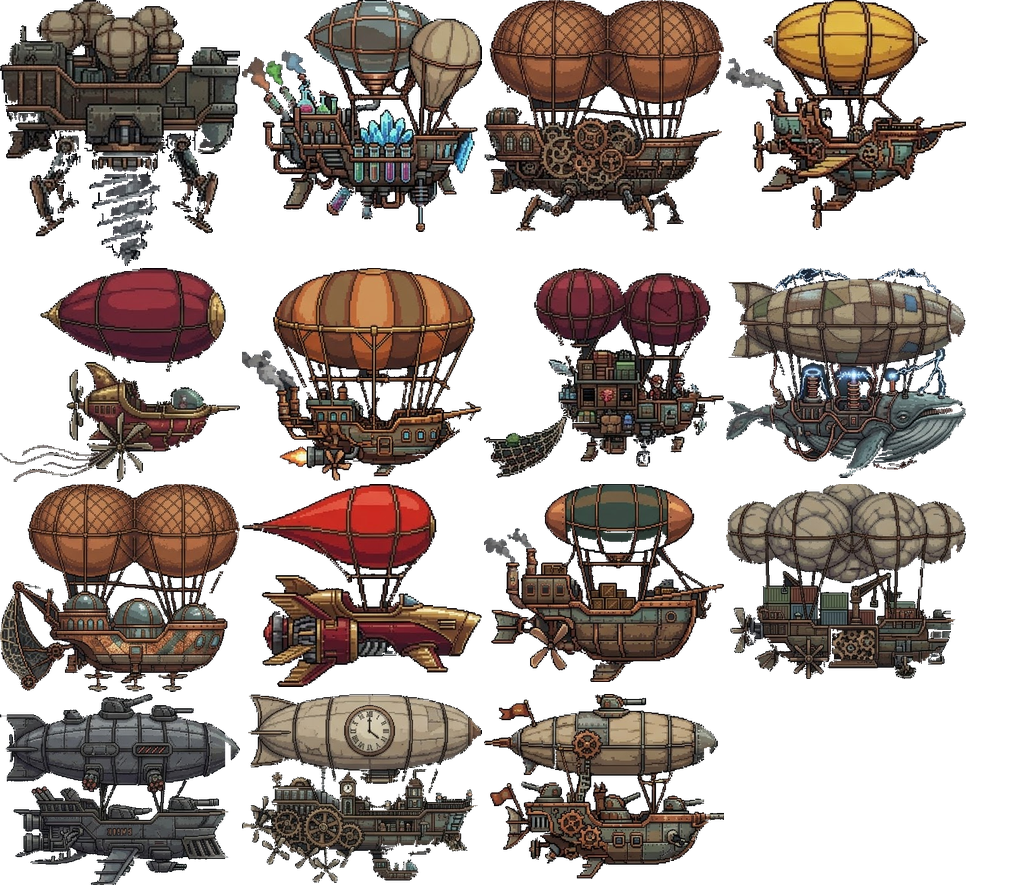
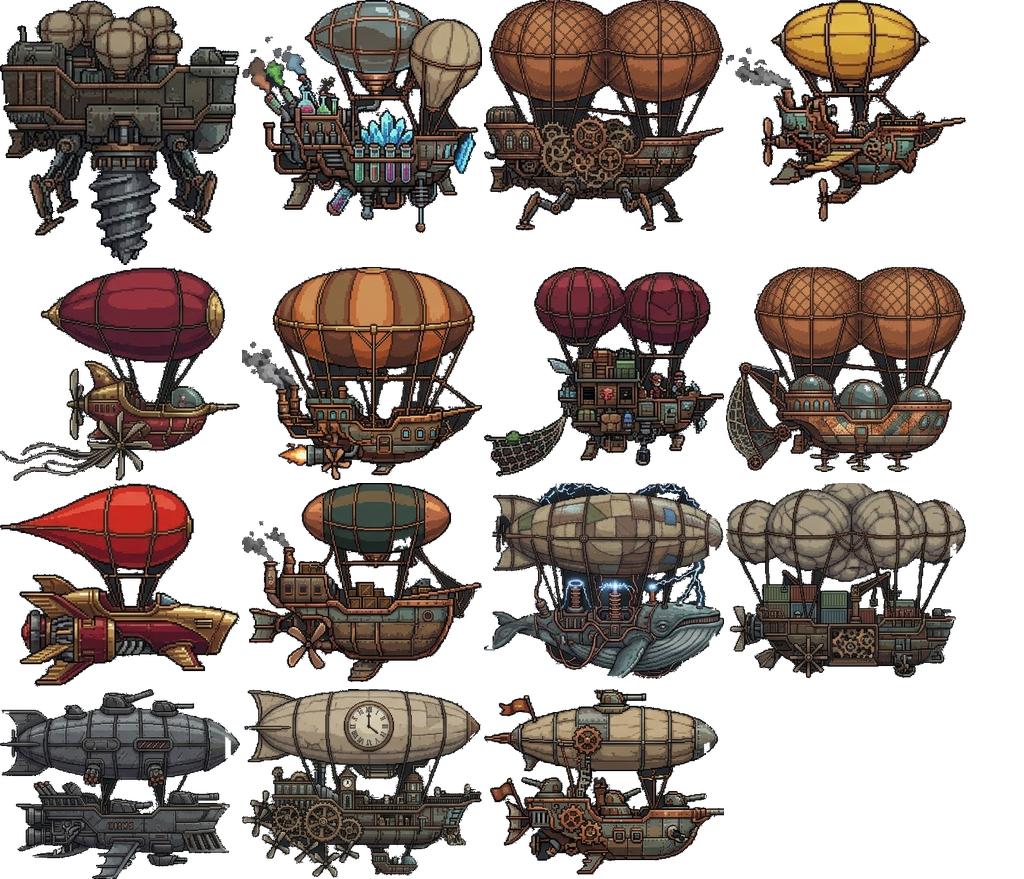
Recut the fleet ships keeping their outlines
Measure the backdrop tolerance per panel from its own noise instead of a
fixed 22, which ate the ships' near-black outlines, and drop stray art
and corner marks outside the frames.

Claude-Session: https://claude.ai/code/session_012B9RMEQkFnqoemxWw27KeB

diff --git a/js/sprites.js b/js/sprites.js
@@ -3,7 +3,7 @@
 // Frames are [x, y, w, h, atlas] (atlas 0 when omitted).
 (function () {
   const FRAMES = {
-    aether_alchemist: [242,0,240,232,3],
+    aether_alchemist: [242,0,240,233,3],
     ammo_box: [351,361,89,92,2],
     anchor_a: [880,640,30,42],
     anchor_b: [912,640,29,42],
@@ -48,10 +48,10 @@
     cannon_carriage: [485,548,169,79,2],
     cannon_ornate: [561,456,203,86,2],
     cart: [278,640,50,54],
-    celestial_harvester: [0,484,240,208,3],
+    celestial_harvester: [726,267,240,205,3],
     chest_ornate: [149,548,118,83,2],
     chest_wood: [766,456,111,86,2],
-    clockwork_caravan: [242,694,240,189,3],
+    clockwork_caravan: [242,689,240,189,3],
     cloud_big: [208,705,76,30],
     cloud_puff: [456,705,47,27],
     cloud_small: [134,741,43,17],
@@ -60,8 +60,8 @@
     compass: [71,262,87,97,2],
     compass_wheel: [799,144,90,98,2],
     crate_wood: [662,361,94,92,2],
-    crimson_comet: [242,484,240,203,3],
-    drill_platform: [0,0,240,266,3],
+    crimson_comet: [0,483,240,204,3],
+    drill_platform: [0,0,240,265,3],
     engine_box: [896,537,64,69],
     engine_ornate: [478,0,156,138,2],
     engine_small: [155,640,49,55],
@@ -85,7 +85,7 @@
     flag_star: [521,640,44,49],
     flame_trail: [633,384,191,29,1],
     frame: [418,705,36,27],
-    galleon_of_gears: [484,0,240,232,3],
+    galleon_of_gears: [484,0,240,231,3],
     gate: [732,640,32,47],
     gatling_a: [260,635,136,65,2],
     gatling_b: [857,548,137,74,2],
@@ -93,7 +93,7 @@
     gauge: [269,548,93,82,2],
     gears_a: [780,0,198,131,2],
     gears_b: [636,0,142,135,2],
-    gilded_sparrow: [484,484,240,198,3],
+    gilded_sparrow: [242,483,240,199,3],
     glue_glob: [234,384,52,37,1],
     glue_mesh: [0,384,54,44,1],
     glue_spray: [139,384,52,39,1],
@@ -108,8 +108,8 @@
     hull_iron: [684,298,162,121],
     hull_trim: [0,537,153,101],
     hull_wood: [155,537,154,91],
-    iron_nautilus: [484,694,240,185,3],
-    ironclad_leviathan: [0,694,240,191,3],
+    iron_nautilus: [484,689,240,186,3],
+    ironclad_leviathan: [0,689,240,190,3],
     ladder: [962,537,20,68],
     lamp: [697,640,33,47],
     lever_a: [741,548,34,77,2],
@@ -147,8 +147,8 @@
     rudder: [442,361,86,92,2],
     sail_jib: [496,298,44,156],
     sail_square: [301,298,86,167],
-    scarlet_caravan: [484,268,240,210,3],
-    scarlet_drifter: [0,268,240,214,3],
+    scarlet_caravan: [484,267,240,210,3],
+    scarlet_drifter: [0,267,240,214,3],
     shell_a: [766,144,31,99,2],
     shell_b: [250,144,29,107,2],
     shell_c: [281,144,34,107,2],
@@ -158,9 +158,9 @@
     ship_galleon: [0,298,299,237],
     ship_ironclad: [674,0,337,245],
     ship_pirate: [370,0,302,253],
-    sky_goliath: [726,484,240,195,3],
-    sky_voyager: [242,268,240,213,3],
-    sky_whale: [726,268,240,210,3],
+    sky_goliath: [726,483,240,195,3],
+    sky_voyager: [242,267,240,213,3],
+    sky_whale: [484,483,240,196,3],
     smoke_black: [654,135,107,86,1],
     smoke_green: [0,135,94,94,1],
     smoke_grey: [80,231,112,84,1],
@@ -195,7 +195,7 @@
     zap_crack: [941,231,59,65,1],
     zap_white: [644,231,77,75,1],
     zap_yellow: [798,231,67,73,1],
-    zephyr_scout: [726,0,240,230,3],
+    zephyr_scout: [726,0,240,222,3],
   };
   // Atlases load the first time one of their frames is asked for; ships and effects load at once.
   const SOURCES = ['assets/art/ship-parts.png', 'assets/art/fx.png', 'assets/art/parts.png', 'assets/art/ships.png'];

diff --git a/tools/build_sprites.py b/tools/build_sprites.py
@@ -216,40 +216,64 @@ def keyed(path, cuts):
 
 
 def fleet_pieces(max_w=240):
-    """Cuts each ship off its panel: the backdrop is whatever matches the panel's edge colour and
-    touches the edge, plus big pockets of exactly that colour trapped between rigging lines."""
+    """Cuts each ship off its panel. The backdrop is a near-flat dark blue-grey with a little JPEG
+    noise; the ships' outlines are only a little darker, so the tolerance is measured per panel from
+    the noise of an empty corner rather than fixed. Backdrop is what matches it and touches the edge
+    (or sits on the frame's lines), plus big pockets trapped between rigging. Only pieces that reach
+    inside the frame are kept: the sheets have faint silhouettes painted outside the frames."""
     from scipy import ndimage
     pieces = {}
-    for nm, (sheet, panel, tol) in SHIP_CUTS.items():
+    for nm, (sheet, panel, _) in SHIP_CUTS.items():
         A = np.array(Image.open(os.path.join(SRC, 'ships', f'fleet-{sheet}.jpg')).convert('RGB')).astype(int)
         x0, y0, x1, y1 = SHIP_PANELS[panel]
         c = A[y0:y1, x0:x1]
-        bg = np.median(np.concatenate([c[0], c[-1], c[:, 0], c[:, -1]]), axis=0)
-        diff = np.abs(c - bg).max(axis=2)
-        # The panel's frame rectangle sits on the same bands on every sheet; only frame-coloured
-        # pixels on those bands are backdrop, so a ship crossing a band keeps its own pixels.
-        bands = np.zeros(diff.shape, bool)
         (r0, r1), (q0, q1) = FRAME_BANDS[panel]
+        # The frame's interior, in quarter coordinates.
+        fy0, fy1, fx0, fx1 = r0[1] + 2 - y0, r1[0] - 2 - y0, q0[1] + 2 - x0, q1[0] - 2 - x0
+        # Sample the flattest of several empty-looking patches (a ship may overhang any one corner).
+        spots = [(fy0, fx0), (fy0, fx1 - 24), (fy1 - 24, fx0), (fy1 - 24, fx1 - 24), (fy1 + 6, fx0 + 40), (fy1 + 6, fx1 - 64)]
+        patches = [c[max(0, y):max(0, y) + 20, max(0, x):max(0, x) + 24].reshape(-1, 3) for y, x in spots]
+        patches = [p_ for p_ in patches if len(p_) >= 200 and p_.mean() < 80]
+        corner = min(patches, key=lambda p_: p_.std(axis=0).sum())
+        bg = np.median(corner, axis=0)
+        tol = max(8, np.percentile(np.abs(corner - bg).max(axis=1), 99.5) + 3)
+        diff = np.abs(c - bg).max(axis=2)
+        bands = np.zeros(diff.shape, bool)
         for lo, hi in (r0, r1): bands[max(0, lo - 2 - y0):max(0, hi + 3 - y0), :] = True
         for lo, hi in (q0, q1): bands[:, max(0, lo - 2 - x0):max(0, hi + 3 - x0)] = True
-        grey = (c.max(axis=2) - c.min(axis=2) <= 20) & (c.max(axis=2) <= 110)  # the lines vary from sheet to sheet
-        frame = bands & ((np.abs(c - np.array(FRAME_LINE)).max(axis=2) <= 26) | (diff <= tol + 14) | grey)
+        grey = (c.max(axis=2) - c.min(axis=2) <= 20) & (c.max(axis=2) <= 110) & (c.max(axis=2) >= 40)
+        frame = bands & (grey | (diff <= tol + 6))
         lab, _ = ndimage.label((diff <= tol) | frame)
         border = set(np.unique(np.concatenate([lab[0], lab[-1], lab[:, 0], lab[:, -1]]))) - {0}
         back = np.isin(lab, list(border))
-        pocket = diff <= 12
+        # Pockets of backdrop between rigging lines: a tight match and a good size.
+        pocket = diff <= max(6, tol - 2)
         lab2, n2 = ndimage.label(pocket)
         if n2:
             sizes = ndimage.sum(pocket, lab2, range(1, n2 + 1))
-            back |= np.isin(lab2, [i + 1 for i, sz in enumerate(sizes) if sz >= 80])
+            back |= np.isin(lab2, [i + 1 for i, sz in enumerate(sizes) if sz >= 150])
         solid = ~back
-        lab3, n3 = ndimage.label(solid)
-        if n3:
-            sizes = ndimage.sum(solid, lab3, range(1, n3 + 1))
-            # Drop specks, and thin straight strips (leftovers of the frame lines).
-            boxes = ndimage.find_objects(lab3)
-            keep = [i + 1 for i, (sz, bx) in enumerate(zip(sizes, boxes)) if sz >= 120 and min(bx[0].stop - bx[0].start, bx[1].stop - bx[1].start) > 5]
-            solid = np.isin(lab3, keep)
+        lab3, n3 = ndimage.label(solid, structure=np.ones((3, 3)))
+        # Near the frame lines: the panel's corner marks live there.
+        near = np.zeros(diff.shape, bool)
+        for lo, hi in (r0, r1): near[max(0, lo - 12 - y0):max(0, hi + 13 - y0), :] = True
+        for lo, hi in (q0, q1): near[:, max(0, lo - 12 - x0):max(0, hi + 13 - x0)] = True
+        boxes = ndimage.find_objects(lab3)
+        sizes = ndimage.sum(solid, lab3, range(1, n3 + 1))
+        biggest = max(sizes) if n3 else 0
+        keep = []
+        for i, bx in enumerate(boxes):
+            ys, xs = bx
+            comp = lab3 == i + 1
+            size = sizes[i]
+            inside = ys.stop > fy0 and ys.start < fy1 and xs.stop > fx0 and xs.start < fx1
+            thin = min(ys.stop - ys.start, xs.stop - xs.start) <= 3
+            cy, cx = [v.mean() for v in np.nonzero(comp)]
+            outside = size < biggest and not (fy0 <= cy <= fy1 and fx0 <= cx <= fx1)  # stray art beyond the frame
+            mark = (size < biggest * 0.03 and near[comp].mean() > 0.5) or outside
+            if inside and size >= 25 and not thin and not mark:
+                keep.append(i + 1)
+        solid = np.isin(lab3, keep)
         rgba = np.dstack([c.astype(np.uint8), (solid * 255).astype(np.uint8)])
         ys, xs = np.where(solid)
         im = Image.fromarray(rgba[ys.min():ys.max() + 1, xs.min():xs.max() + 1], 'RGBA')

diff --git a/DESIGN_CHANGES.md b/DESIGN_CHANGES.md
@@ -392,3 +392,8 @@ The cutaway with parts-sheet modules on the hull didn't work, so the two jobs ar
   - Tall enemies are also scaled to clear the top of the flight view.
   *Reason: the ships must be whole and clean.*
 - **Riveted wall textures** (your three latest uploads, now `assets/art/ui/wall-*.jpg`). The plain plate wall sits behind the whole page, darkened so panels and text stay readable. The gear-work wall sits behind the header. The bright brass-and-copper wall is kept for later. *Reason: the page around the game now matches the steampunk art.*
+- **Fixed again: ship cut-outs.** The recut was worse: a fixed colour tolerance of 22 treated the ships' near-black outlines as backdrop and stripped them, leaving ragged edges. The wider cut also picked up the faint silhouettes painted outside the frames.
+  - The tolerance is now measured per panel from the backdrop's own noise (about 8–13), sampled from the flattest of several empty patches, so overhanging ships can't skew it.
+  - Outlines are kept.
+  - Separate pieces whose centre lies outside the frame, and the frame's corner marks, are dropped.
+  *Reason: clean, whole ships with their pixel outlines.*
